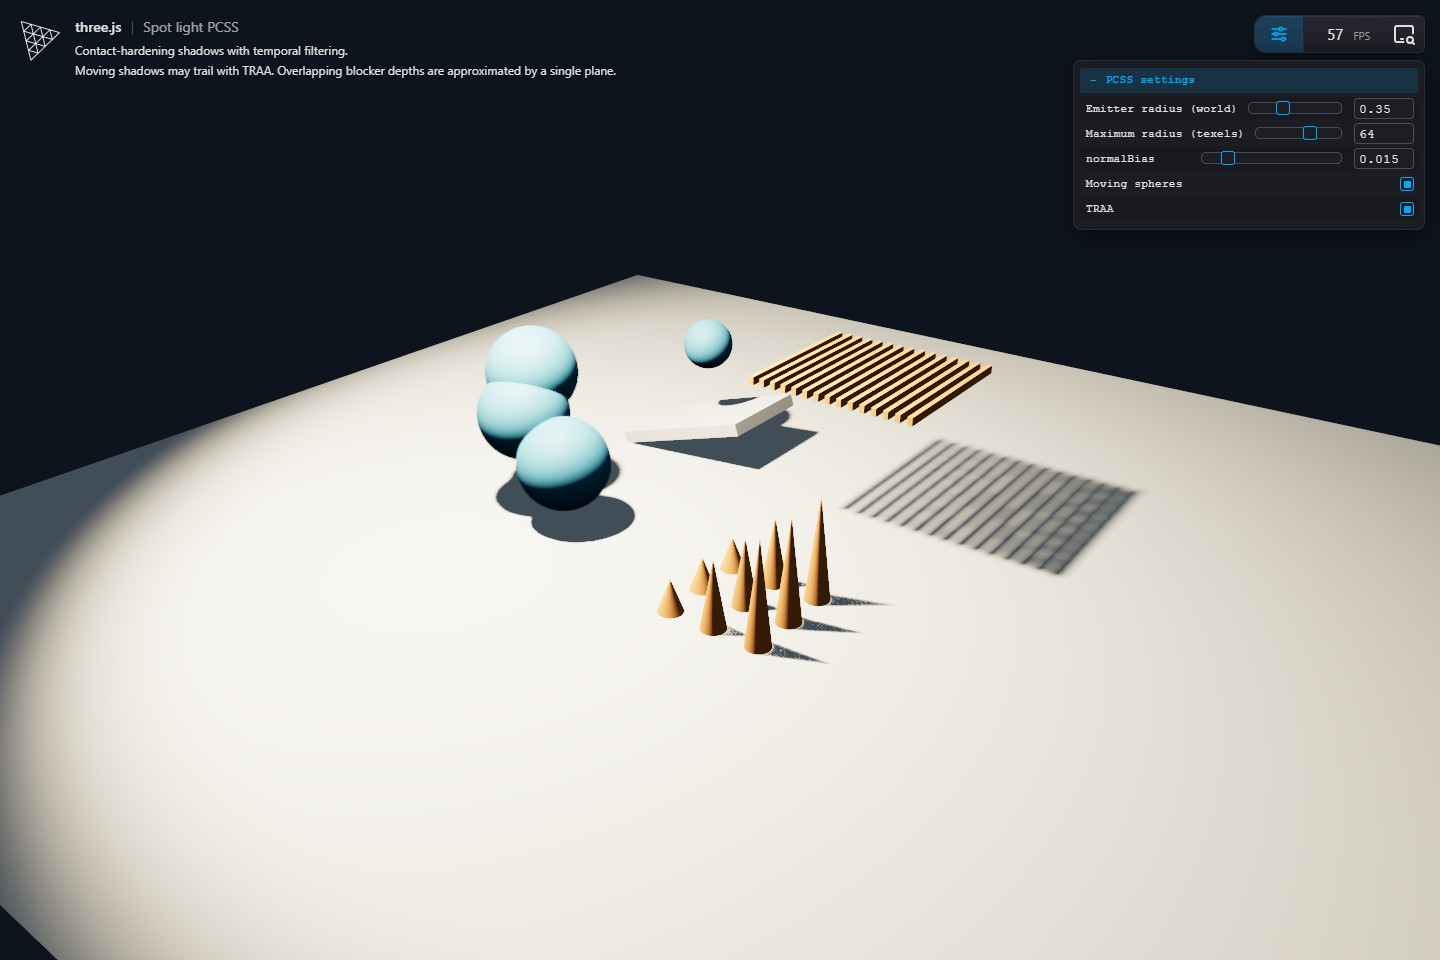
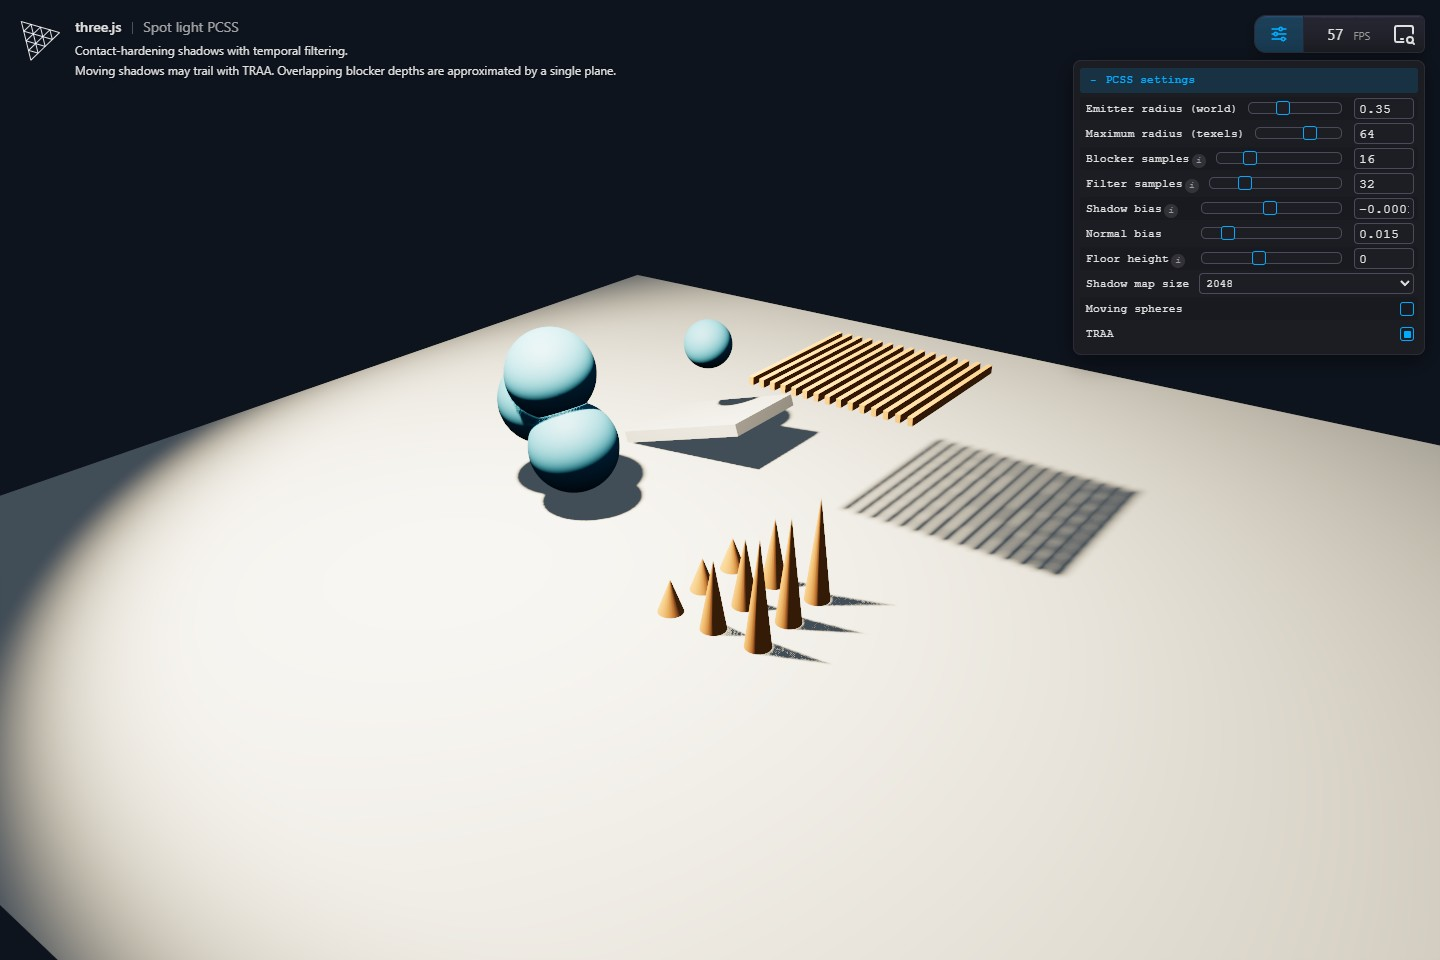
Expose PCSS sampling, bias, floor height and map resolution controls

diff --git a/examples/jsm/tsl/lighting/SpotLightPCSS.js b/examples/jsm/tsl/lighting/SpotLightPCSS.js
@@ -4,6 +4,7 @@ import { Fn, If, Loop, float, vec2, ivec2, uniform, reference, renderGroup, text
 /**
  * Example-only PCSS filter for a spot light with conventional perspective depth.
  * lightRadius is the emitter radius in world units; maxRadius is in shadow texels.
+ * Sample counts are adjustable integer uniforms (blockers: 1–64, filter: 1–128).
  * Blocker depths are linearized before averaging. Multiple blocker layers are
  * approximated by one plane, so overlapping penumbrae can leak light.
  *
@@ -15,6 +16,8 @@ export function spotLightPCSS( light ) {
 	const lightRadius = uniform( 0.35 );
 	const maxRadius = uniform( 64 );
 	const frame = uniform( 0 );
+	const blockerSamples = uniform( 16, 'int' );
+	const filterSamples = uniform( 32, 'int' );
 	const shadow = light.shadow;
 	const near = reference( 'near', 'float', shadow.camera ).setGroup( renderGroup );
 	const far = reference( 'far', 'float', shadow.camera ).setGroup( renderGroup );
@@ -47,12 +50,14 @@ export function spotLightPCSS( light ) {
 
 		// Project the emitter through the near plane onto the receiver plane.
 		const searchRadius = emitterUV.mul( receiver.sub( near ) ).div( receiver.mul( near ) ).min( maxRadius.mul( texel ) );
+		const blockerSampleCount = blockerSamples.clamp( 1, 64 ).toVar();
+		const filterSampleCount = filterSamples.clamp( 1, 128 ).toVar();
 		const blockerSum = float( 0 ).toVar();
 		const blockerCount = float( 0 ).toVar();
 
-		Loop( 16, ( { i } ) => {
+		Loop( { start: 0, end: blockerSampleCount, type: 'int', condition: '<' }, ( { i } ) => {
 
-			const uv = shadowCoord.xy.add( vogelDiskSample( i, 16, phi ).mul( searchRadius ) ).clamp( lower, upper );
+			const uv = shadowCoord.xy.add( vogelDiskSample( i, blockerSampleCount, phi ).mul( searchRadius ) ).clamp( lower, upper );
 			const offset = uv.sub( shadowCoord.xy );
 			const depth = textureLoad( depthTexture, ivec2( uv.mul( mapSize ) ) ).r;
 			const isBlocker = builder.renderer.reversedDepthBuffer ? depth.greaterThan( compareDepth( offset ) ) : depth.lessThan( compareDepth( offset ) );
@@ -73,20 +78,20 @@ export function spotLightPCSS( light ) {
 			// Project onto shadow UV at the receiver, not at the near plane.
 			const radius = emitterUV.mul( max( receiver.sub( blocker ), 0 ) ).div( blocker.mul( receiver ) ).clamp( texel, maxRadius.mul( texel ) );
 			visibility.assign( 0 );
-			Loop( 32, ( { i } ) => {
+			Loop( { start: 0, end: filterSampleCount, type: 'int', condition: '<' }, ( { i } ) => {
 
-				const uv = shadowCoord.xy.add( vogelDiskSample( i, 32, phi ).mul( radius ) ).clamp( lower, upper );
+				const uv = shadowCoord.xy.add( vogelDiskSample( i, filterSampleCount, phi ).mul( radius ) ).clamp( lower, upper );
 				visibility.addAssign( texture( depthTexture, uv ).compare( compareDepth( uv.sub( shadowCoord.xy ) ) ) );
 
 			} );
-			visibility.divAssign( 32 );
+			visibility.divAssign( float( filterSampleCount ) );
 
 		} );
 		return visibility;
 
 	} );
 
-	return { filterNode, lightRadius, maxRadius, frame };
+	return { filterNode, lightRadius, maxRadius, frame, blockerSamples, filterSamples };
 
 }
 

diff --git a/examples/webgpu_shadowmap_pcss.html b/examples/webgpu_shadowmap_pcss.html
@@ -111,11 +111,20 @@
 			const temporal = traa( color, scenePass.getTextureNode( 'depth' ), scenePass.getTextureNode( 'velocity' ), camera );
 			pipeline.outputNode = temporal;
 
-			const params = { animate: true, temporal: true };
+			const params = { animate: true, temporal: true, resolution: 2048 };
 			const gui = renderer.inspector.createParameters( 'PCSS settings' );
 			gui.add( pcss.lightRadius, 'value', 0, 1, 0.01 ).name( 'Emitter radius (world)' );
 			gui.add( pcss.maxRadius, 'value', 1, 96, 1 ).name( 'Maximum radius (texels)' );
-			gui.add( light.shadow, 'normalBias', 0, 0.1, 0.001 );
+			gui.add( pcss.blockerSamples, 'value', 1, 64, 1 ).name( 'Blocker samples' ).info( 'More samples reduce missed blockers and stabilize the penumbra estimate.' );
+			gui.add( pcss.filterSamples, 'value', 1, 128, 1 ).name( 'Filter samples' ).info( 'Each tap uses hardware PCF. More taps reduce grain at greater GPU cost.' );
+			gui.add( light.shadow, 'bias', - 0.005, 0.005, 0.00001 ).name( 'Shadow bias' ).info( 'Negative bias reduces acne; too much detaches shadows from their casters.' );
+			gui.add( light.shadow, 'normalBias', 0, 0.1, 0.001 ).name( 'Normal bias' );
+			gui.add( ground.position, 'y', - 2, 3, 0.01 ).name( 'Floor height' ).info( 'Move only the receiver plane to vary blocker-to-receiver distance.' );
+			gui.add( params, 'resolution', [ 512, 1024, 2048, 4096 ] ).name( 'Shadow map size' ).onChange( value => {
+
+				light.shadow.mapSize.set( Number( value ), Number( value ) );
+
+			} );
 			gui.add( params, 'animate' ).name( 'Moving spheres' );
 			gui.add( params, 'temporal' ).name( 'TRAA' ).onChange( () => {
 
